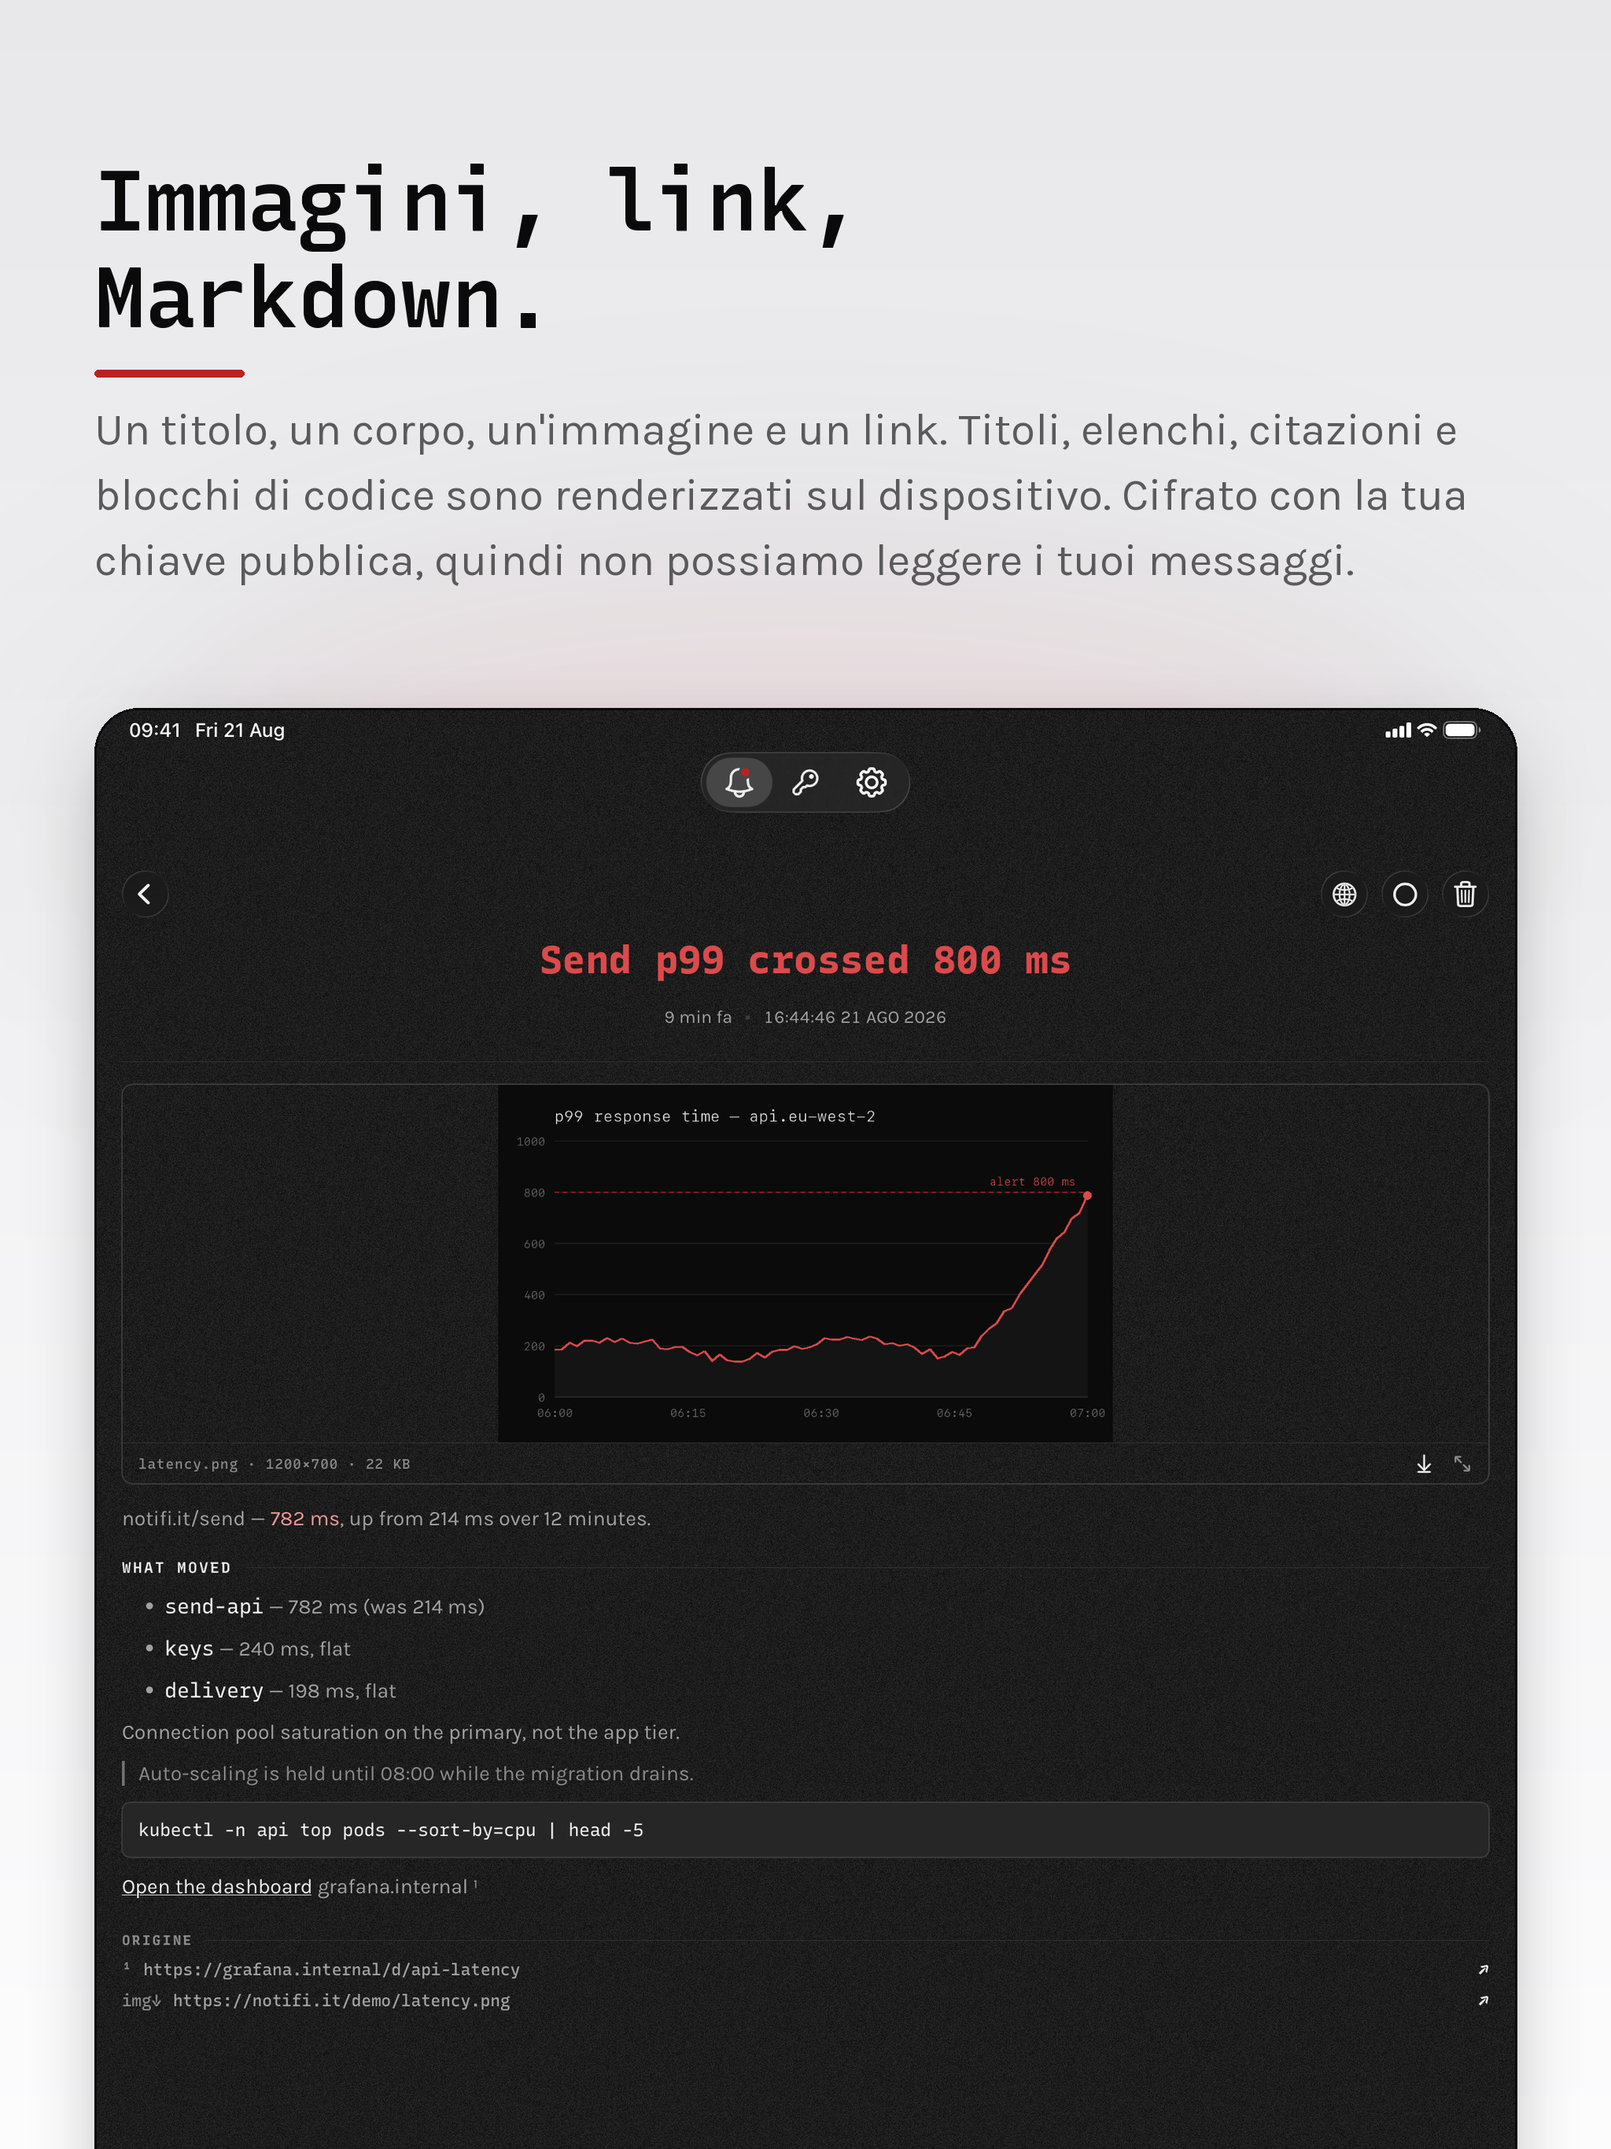
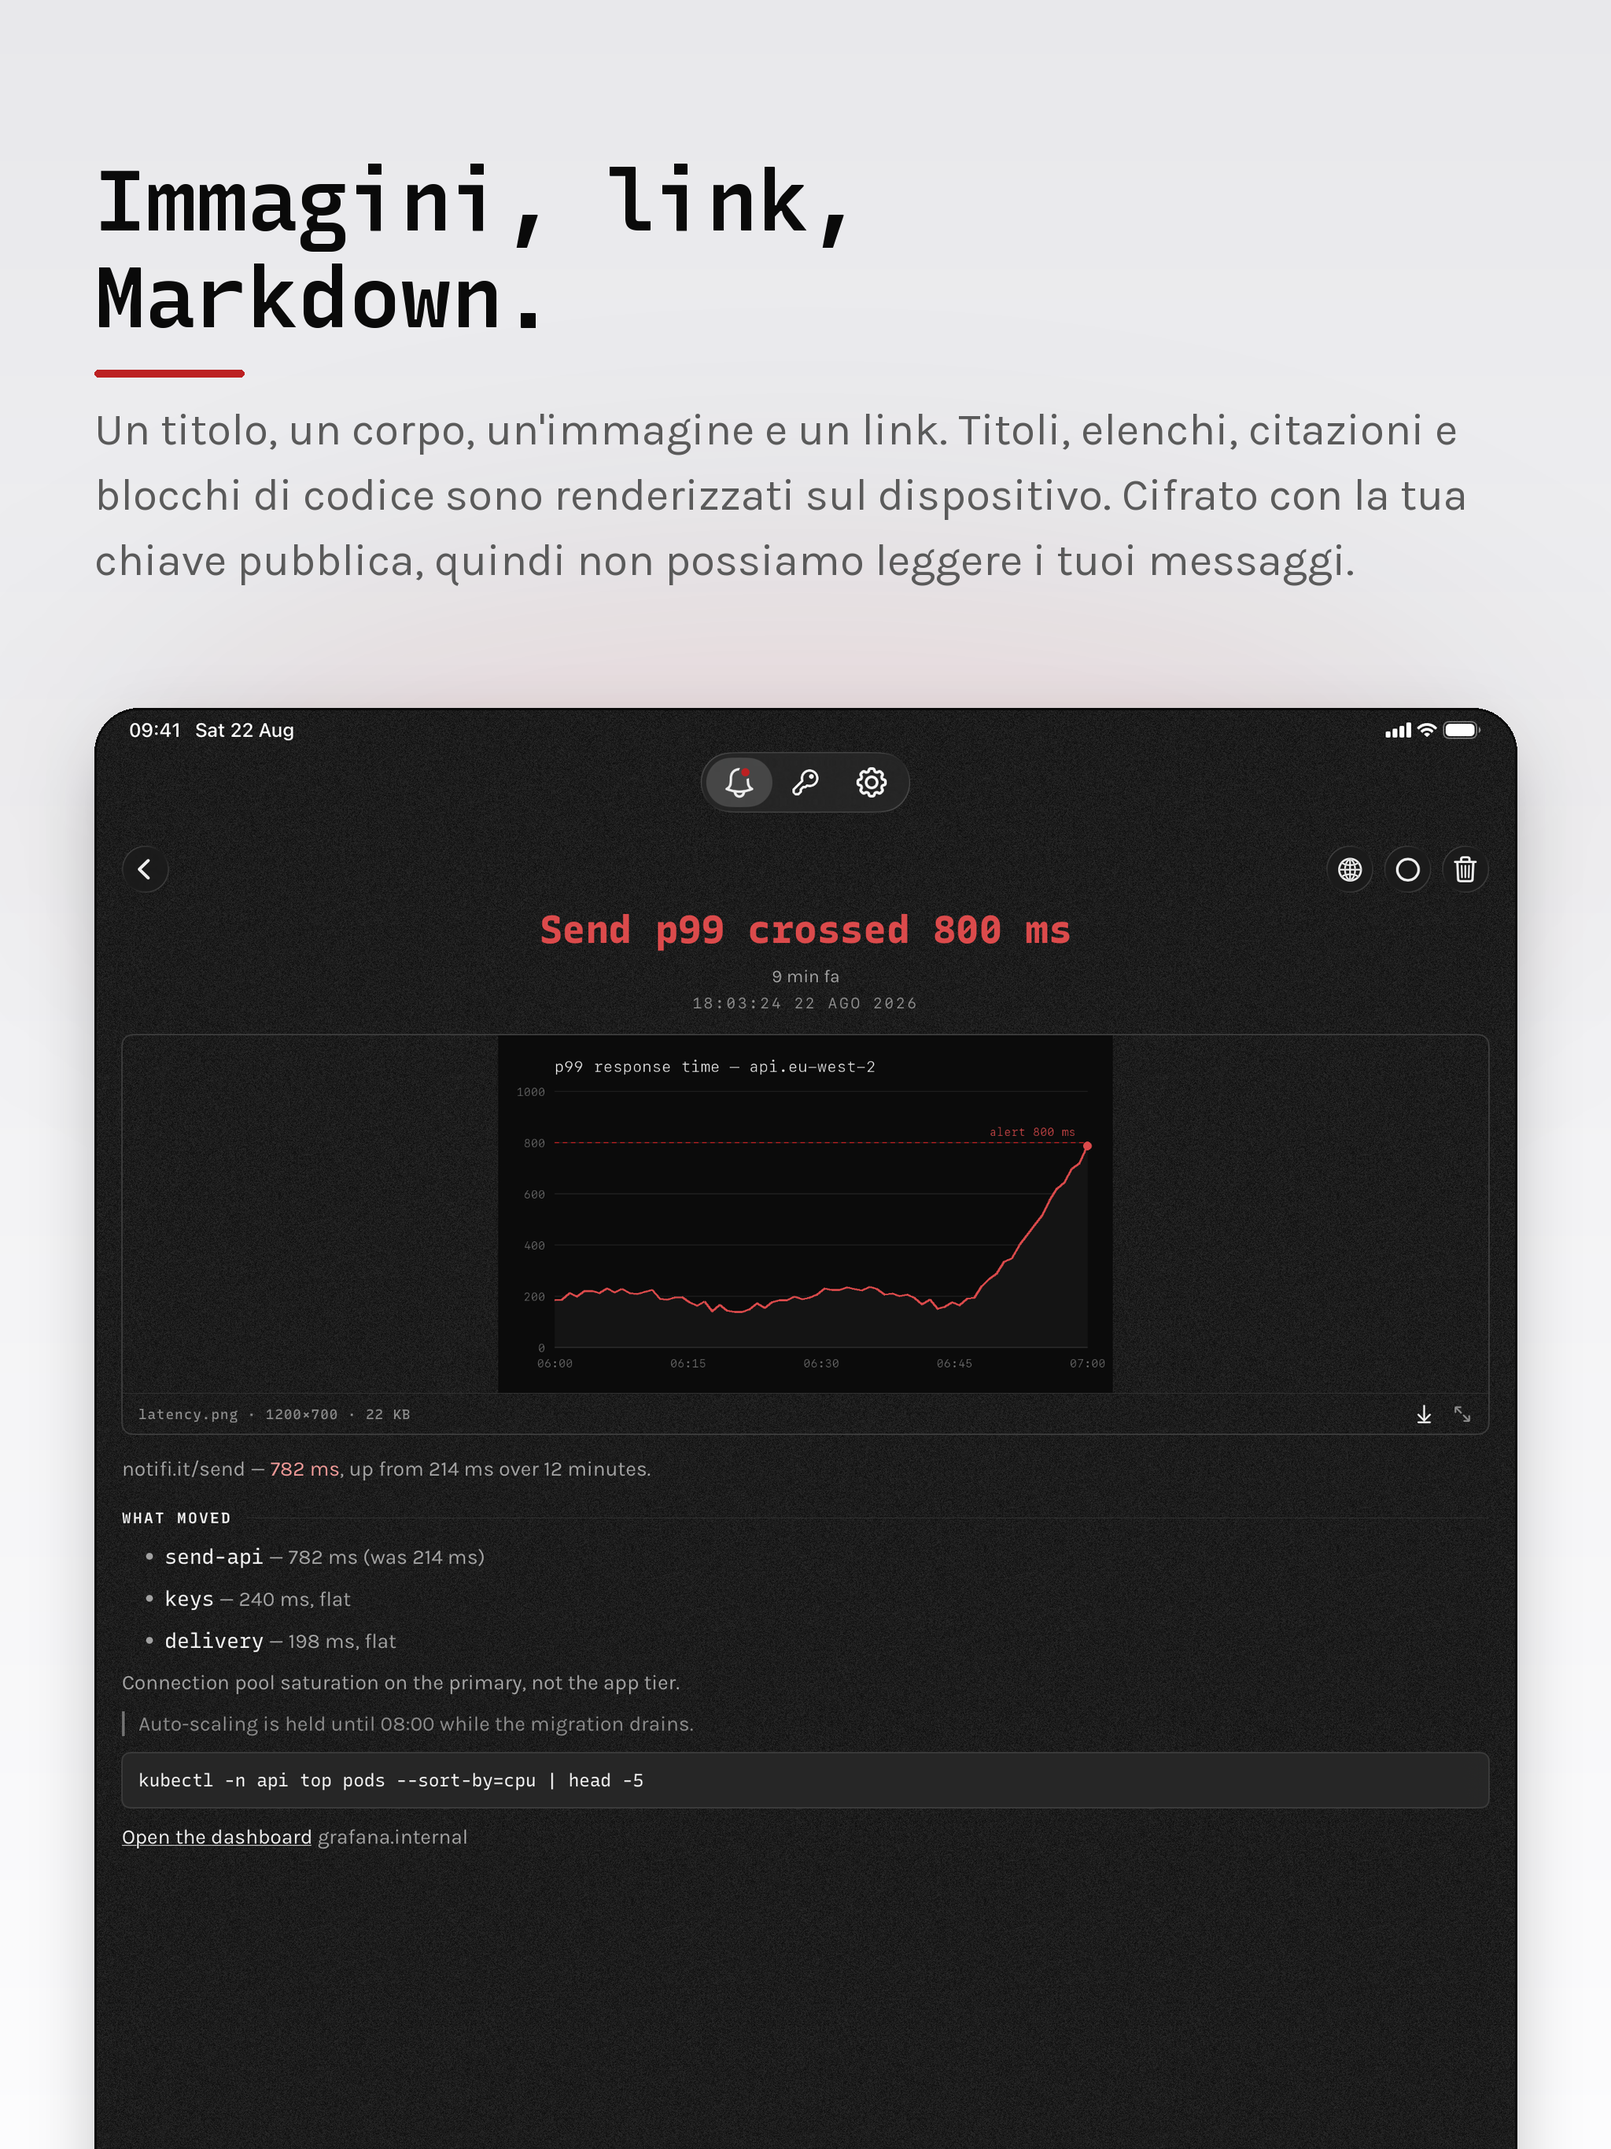
Split the message timestamp onto its own line (#276)
* Split the message timestamp onto its own line

The header ran the relative age and the absolute stamp together on one
line, where the seconds and the shouted month made the precise time hard
to pick out. The age keeps the first line; the stamp drops to a second
line in tracked monospace, dimmed.

The rule under the timestamp and the SOURCE footer both go: the image
card's own border already separates the header from the body, and the
link list duplicated affordances the body and the toolbar globe already
carry.

* Close the gap under the screen titles

Nine points came off the title-to-content distance on every tab at once:
the header's reserved subtitle line no longer takes a leading gap, the
page header's bottom padding drops to 2, and firstBlockTop goes to 0 on
iOS. contentTop still clears the top fade, so the scroll edge is
unchanged.

* Drop the footnote markers from body links

The superscripts numbered entries in the SOURCE list, which no longer
exists, so each link trailed a marker pointing at nothing -- including in
the published App Store frames. Links keep their host disclosure.

Screenshots are regenerated with PUBLISH_ALL=1: a single glyph is well
under publish_image's noise gate, so the ordinary run kept the old
frames.

* Make the release notes version-independent

Every locale carried 2.0.8's notes, which would have shipped as 2.0.9's.
A generic note stays true for any release, so it does not need rewriting
or retranslating each time.
[…]

diff --git a/apps/app/Shared/Views/MessageDetailView.swift b/apps/app/Shared/Views/MessageDetailView.swift
@@ -177,11 +177,8 @@ struct MessageDetailView: View {
                 .grainReveal(trigger: message.id, duration: 0.45)
 
             metaLine(for: message)
-                .padding(.top, 14)
+                .padding(.top, 9)
                 .frame(maxWidth: .infinity)
-
-            Hairline()
-                .padding(.top, 22)
 
             if let url = message.imageURL, LinkPolicy.allows(url, anyScheme: anyScheme) {
                 Group {
@@ -204,10 +201,6 @@ struct MessageDetailView: View {
                              critical: message.isCritical)
                     .padding(.top, 16)
             }
-
-            sourceFooter(for: message, bodyLinks: annotated?.links ?? [],
-                         anyScheme: anyScheme)
-
         }
         .padding(.bottom, 40)
     }
@@ -224,21 +217,23 @@ struct MessageDetailView: View {
     }
 
     private func quietLine(_ name: String?, age: String, stamp: String) -> some View {
-        HStack(spacing: 6) {
-            if let name {
-                keyGlyph(11, Theme.dim)
-                Text(name)
+        VStack(spacing: 5) {
+            HStack(spacing: 6) {
+                if let name {
+                    keyGlyph(11, Theme.dim)
+                    Text(name)
+                        .font(.karla(size: 13, weight: .semibold))
+                        .foregroundStyle(Theme.muted)
+                    Text("·").foregroundStyle(Theme.chip)
+                }
+                Text(age)
                     .font(.karla(size: 13, weight: .semibold))
                     .foregroundStyle(Theme.muted)
-                Text("·").foregroundStyle(Theme.chip)
             }
-            Text(age)
-                .font(.karla(size: 13, weight: .semibold))
-                .foregroundStyle(Theme.muted)
-            Text("·").foregroundStyle(Theme.chip)
             Text(stamp)
-                .font(.karla(size: 13))
-                .foregroundStyle(Theme.muted)
+                .font(.system(size: 11, weight: .regular, design: .monospaced))
+                .tracking(1.4)
+                .foregroundStyle(Theme.dim)
         }
         .lineLimit(1)
         .monospacedDigit()
@@ -298,71 +293,6 @@ struct MessageDetailView: View {
         .contextMenu {
             Button(Copy.Message.imageLoadWarning(url.host() ?? Copy.Message.imageHost)) {}
                 .disabled(true)
-        }
-    }
-
-    @ViewBuilder
-    private func sourceFooter(for message: Message, bodyLinks: [URL],
-                              anyScheme: Bool) -> some View {
-        var rows: [(mark: String, url: URL, isImage: Bool)] {
-            var out: [(String, URL, Bool)] = []
-            for (index, url) in bodyLinks.enumerated() {
-                out.append((BodyLinks.mark(index), url, false))
-            }
-            if let link = message.link, !bodyLinks.contains(link) {
-                out.append((BodyLinks.mark(out.count), link, false))
-            }
-            if let image = message.imageURL {
-                out.append(("img↓", image, true))
-            }
-            return out
-        }
-        let listed = rows
-        if !listed.isEmpty {
-            VStack(alignment: .leading, spacing: 8) {
-                HStack(spacing: 8) {
-                    Text(Copy.Message.sourceHeader.uppercased())
-                        .font(.inco(size: 10, weight: .semibold, relativeTo: .caption2))
-                        .tracking(1.4)
-                        .foregroundStyle(Theme.dim)
-                        .fixedSize()
-                    Hairline()
-                }
-                ForEach(listed, id: \.url.absoluteString) { row in
-                    Button {
-                        if row.isImage {
-                            revealedImage = true
-                            viewingImage = ViewedImage(url: row.url)
-                        } else {
-                            open(row.url, keyID: message.keyID)
-                        }
-                    } label: {
-                        HStack(alignment: .top, spacing: 8) {
-                            Text(row.mark)
-                                .font(.inco(size: 11.5, relativeTo: .caption2))
-                                .foregroundStyle(Theme.dim)
-                                .fixedSize()
-                            Text(row.url.absoluteString)
-                                .font(.inco(size: 11.5, relativeTo: .caption2))
-                                .foregroundStyle(Theme.muted)
-                                .lineSpacing(5.5)
-                                .multilineTextAlignment(.leading)
-                                .fixedSize(horizontal: false, vertical: true)
-                                .frame(maxWidth: .infinity, alignment: .leading)
-                            Text("↗")
-                                .font(.inco(size: 11.5, weight: .semibold,
-                                            relativeTo: .caption2))
-                                .foregroundStyle(Theme.fg)
-                                .fixedSize()
-                        }
-                        .contentShape(Rectangle())
-                    }
-                    .buttonStyle(.geist)
-                    .disabled(!row.isImage
-                              && !LinkPolicy.allows(row.url, anyScheme: anyScheme))
-                }
-            }
-            .padding(.top, 24)
         }
     }
 
@@ -578,12 +508,6 @@ private struct ImageBlock: View {
 }
 
 enum BodyLinks {
-    private static let superscripts = ["¹", "²", "³", "⁴", "⁵", "⁶", "⁷", "⁸", "⁹"]
-
-    static func mark(_ index: Int) -> String {
-        index < superscripts.count ? superscripts[index] : "⁺"
-    }
-
     static func annotate(_ source: String) -> (body: String, links: [URL]) {
         guard let regex = try? NSRegularExpression(
             pattern: #"\[([^\]]+)\]\(([^)\s]+)\)"#) else { return (source, []) }
@@ -599,7 +523,7 @@ enum BodyLinks {
                   let url = URL(string: String(source[urlRange])) else { continue }
             out += source[cursor..<whole.upperBound]
             let host = url.host() ?? url.absoluteString
-            out += " \(host) \(mark(links.count))"
+            out += " \(host)"
             links.append(url)
             cursor = whole.upperBound
         }

diff --git a/packages/copy/src/translations/de.ts b/packages/copy/src/translations/de.ts
@@ -66,10 +66,7 @@ export const de: Translation = {
     'DRINGENDE BENACHRICHTIGUNGEN\n' +
     'Markiere einen Schlüssel als dringend, und seine Benachrichtigungen durchbrechen ' +
     'den Fokus und landen auf dem Sperrbildschirm.\n',
-  'store.releaseNotes':
-    'Der Bildschirm Benachrichtigungen heißt jetzt Inbox, und die Zählung über der Liste ist verschwunden.\n\n' +
-    'Auf dem iPad nutzt die App die volle Breite des Bildschirms statt einer Spalte in Telefonbreite, und die Liste scrollt unter der Tab-Leiste bis zum unteren Rand. Das Schlüsselsymbol in der Tab-Leiste wird dort nicht mehr abgeschnitten.\n',
-
+  'store.releaseNotes': 'Bug fixes and performance improvements.\n',
   'store.shotInboxTitle': 'Eine Anfrage.\nDirekt in deine Tasche.',
   'store.shotInboxBody':
     'Push-Benachrichtigungen für deine Skripte und Server. Eine HTTP-Anfrage an notifi.it, ' +

diff --git a/packages/copy/src/translations/es.ts b/packages/copy/src/translations/es.ts
@@ -369,9 +369,7 @@ export const es: Translation = {
     'ALERTAS URGENTES\n' +
     'Marca una clave como urgente y sus notificaciones atraviesan el modo Enfoque y aparecen en la ' +
     'pantalla de bloqueo.\n',
-  'store.releaseNotes':
-    'La pantalla Notificaciones ahora se llama Inbox y el recuento sobre la lista ha desaparecido.\n\n' +
-    'En iPad la app usa todo el ancho de la pantalla en lugar de una columna con ancho de teléfono, y la lista se desplaza bajo la barra de pestañas hasta el borde inferior. El icono de la llave en la barra de pestañas ya no aparece recortado.\n',
+  'store.releaseNotes': 'Bug fixes and performance improvements.\n',
   'store.shotInboxTitle': 'Una solicitud.\nDirecto a tu bolsillo.',
   'store.shotInboxBody':
     'Notificaciones push para tus scripts y servidores. Una solicitud HTTP a notifi.it y llega un ' +

diff --git a/packages/copy/src/translations/fr.ts b/packages/copy/src/translations/fr.ts
@@ -362,9 +362,7 @@ export const fr: Translation = {
     'ALERTES URGENTES\n' +
     'Marquez une clé comme urgente et ses notifications franchissent Focus et arrivent sur ' +
     "l'écran verrouillé.\n",
-  'store.releaseNotes':
-    "L'écran Notifications s'appelle désormais Inbox, et le compteur au-dessus de la liste a disparu.\n\n" +
-    "Sur iPad, l'app occupe toute la largeur de l'écran au lieu d'une colonne à la largeur d'un téléphone, et la liste défile sous la barre d'onglets jusqu'au bord inférieur. L'icône de clé dans la barre d'onglets n'est plus rognée.\n",
+  'store.releaseNotes': 'Bug fixes and performance improvements.\n',
   'store.shotInboxTitle': 'Une requête.\nDroit dans votre poche.',
   'store.shotInboxBody':
     'Notifications push pour vos scripts et serveurs. Une requête HTTP vers notifi.it et ' +

diff --git a/packages/copy/src/translations/it.ts b/packages/copy/src/translations/it.ts
@@ -370,9 +370,7 @@ export const it: Translation = {
     'AVVISI URGENTI\n' +
     'Contrassegna una chiave come urgente e le sue notifiche superano Focus e arrivano sulla ' +
     'schermata di blocco.\n',
-  'store.releaseNotes':
-    "La schermata Notifiche ora si chiama Inbox e il conteggio sopra l'elenco è sparito.\n\n" +
-    "Su iPad l'app usa tutta la larghezza dello schermo invece di una colonna larga quanto un telefono, e l'elenco scorre sotto la barra delle schede fino al bordo inferiore. L'icona della chiave nella barra delle schede non è più tagliata.\n",
+  'store.releaseNotes': 'Bug fixes and performance improvements.\n',
   'store.shotInboxTitle': 'Una richiesta.\nDritta in tasca.',
   'store.shotInboxBody':
     'Notifiche push per i tuoi script e server. Una richiesta HTTP a notifi.it e arriva un ' +

diff --git a/packages/copy/src/strings.ts b/packages/copy/src/strings.ts
@@ -69,9 +69,7 @@ export const copy = {
       'URGENT ALERTS\n' +
       'Mark a key as urgent and its notifications break through Focus and land on the lock ' +
       'screen.\n',
-    releaseNotes:
-      'The Notifications screen is called the Inbox now, and the count above the list is gone.\n\n' +
-      'On iPad the app uses the full width of the screen rather than a phone-width column, and the list scrolls under the tab bar to the bottom edge. The key icon in the tab bar is no longer clipped there.\n',
+    releaseNotes: 'Bug fixes and performance improvements.\n',
 
     shotInboxTitle: 'One request.\nStraight to your pocket.',
     shotInboxBody:

diff --git a/apps/app/Shared/Support/Theme.swift b/apps/app/Shared/Support/Theme.swift
@@ -81,7 +81,7 @@ enum Theme {
     #if os(macOS)
     static let firstBlockTop: CGFloat = 16
     #else
-    static let firstBlockTop: CGFloat = 2
+    static let firstBlockTop: CGFloat = 0
     #endif
 
     static let headerBarHeight: CGFloat = 30
@@ -156,7 +156,7 @@ extension View {
         #if os(macOS)
         padding(.top, 18).padding(.bottom, 6)
         #else
-        padding(.top, 4).padding(.bottom, 6)
+        padding(.top, 4).padding(.bottom, 2)
         #endif
     }
 

diff --git a/apps/app/Shared/Views/Components/GeistComponents.swift b/apps/app/Shared/Views/Components/GeistComponents.swift
@@ -484,7 +484,7 @@ struct GeistHeader<Trailing: View>: View {
 
     var body: some View {
         HStack(alignment: .top, spacing: 12) {
-            VStack(alignment: .leading, spacing: 3) {
+            VStack(alignment: .leading, spacing: 0) {
                 Text(title.uppercased())
                     .font(Theme.screenTitle)
                     .tracking(Theme.screenTitleTracking)
